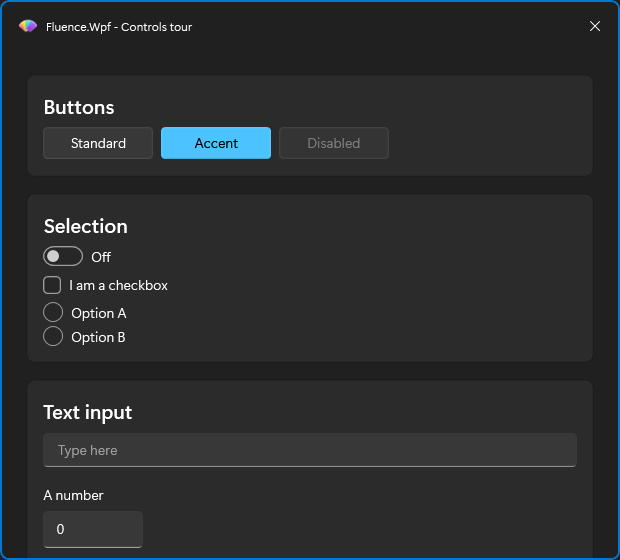
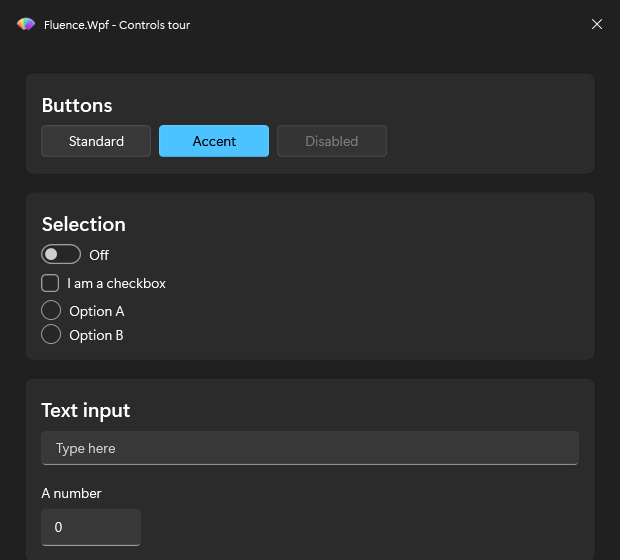
Document the WinUI parity audit and regenerate the screenshots.
docs/winui-parity.md catalogues the deliberate deviations, geometry gaps,
Fluence-only layers and tokens, and the high contrast and missing-state
follow-ups, which are also filed in KNOWN_ISSUES.md.

diff --git a/CHANGELOG.md b/CHANGELOG.md
@@ -8,6 +8,19 @@ The format is based on [Keep a Changelog](https://keepachangelog.com/en/1.1.0/),
 
 ### Fixed
 
+- Control templates are re-aligned with the WinUI 3 CommonStyles token roles. A full parity audit against `Common_themeresources_any.xaml` found every shared Color token byte-identical in Light and Dark; the deviations were role choices, element opacities, and Fluence-only layers, and the ones with no recorded rationale are corrected here. The remaining deliberate deviations and known gaps are catalogued in `docs/winui-parity.md`.
+- `ControlElevationBorderBrush` no longer flips its gradient in Dark. WinUI applies the vertical flip only in the Light dictionary, so the 1 px highlight now sits on the WinUI edge in Dark across the button family. `AccentControlElevationBorderBrush`, which WinUI flips in both themes, is unchanged.
+- `AcrylicBackgroundFillColorDefault` is opaque (`#FFF9F9F9` Light, `#FF2C2C2C` Dark), the WinUI `AcrylicBrush` FallbackColor, and every acrylic-derived flyout plate binds it: `FlyoutPresenter`, `ContextMenu` root and submenu, the `ComboBox` dropdown, `DatePicker`, `TimePicker`, `AutoSuggestBox`, `CommandBarFlyout`, and the `DropDownButton`, `SplitButton` and `ToggleSplitButton` flyouts. Previously the plates mixed `SolidBackgroundFillColorTertiaryBrush` (`#282828` Dark, four units off the fallback) and, on the three button flyouts, `SolidBackgroundFillColorQuarternaryBrush` (pure white in Light). The Windows 10 legacy acrylic tint keeps its translucency through a fixed alpha applied at the point of use. `TeachingTip` keeps `SolidBackgroundFillColorTertiaryBrush`, which is WinUI's own token for it. The scroll bar track, which aliases the same key, is opaque as WinUI's fallback is.
+- The unused `TextPlaceholderColor` token is removed, and `TextBox` and `PasswordBox` placeholders use `TextFillColorSecondaryBrush` with `TextFillColorDisabledBrush` when disabled, as WinUI's `TextControlPlaceholderForeground` family does; `TextBox`, `PasswordBox` and `NumberBox` selection highlight uses `AccentFillColorSelectedTextBackgroundBrush`, the key WinUI binds, instead of `AccentFillColorDefaultBrush`. `NumberBox` has no placeholder element; it keeps the elevation border gradient when focused and its spin buttons follow WinUI's `NumberBoxSpinButtonStyle` fill, border and foreground states instead of a subtle-fill look with a 0.4 disabled fade.
+- `Slider` matches the WinUI role table: the unfilled track paints `ControlStrongFillColorDefaultBrush` (it previously referenced `ControlFillColorPrimaryBrush`, a key that did not exist, and painted nothing), the value fill reacts to hover, drag and disabled, tick bars use the strong fill family, the whole-control 0.8 disabled fade is gone, and the thumb is WinUI's fixed neutral capsule with `ControlElevationBorderBrush` around a scaling accent inner dot (0.86 rest, 1.167 hover, 0.71 pressed). `ColorPicker` channel sliders get their own neutral thumb style, and the spectrum and preview strokes move to WinUI's 2 px with a rounded spectrum.
+- `ControlFastOutSlowInKeySpline` is `0,0,0,1`, the WinUI value its own comment claimed; the inline `KeySpline="0.8,0,0,1"` literals scattered across the control templates that were never rebased onto the shared resource are swept to `0,0,0,1` as well.
+- The `AccentFillBackdrop` plate is switched off while a control is disabled in every consumer (`Button`, `ToggleButton`, `CheckBox`, `RadioButton`, `ToggleSwitch`, `SplitButton`, `ToggleSplitButton`, `DropDownButton`), so the translucent disabled accent fill composites over the live surface as it does in WinUI.
+- `HyperlinkButton` uses `AccentTextFillColorSecondaryBrush` on hover and `AccentTextFillColorDisabledBrush` when disabled, and no longer underlines on hover. `CheckBox` paints the pressed checked and indeterminate glyph with `TextOnAccentFillColorSecondaryBrush`, and its disabled checked stroke resolves through `ControlStrongStrokeColorDisabledBrush`. `RadioButton` keeps `TextOnAccentFillColorPrimaryBrush` on the disabled dot and gains WinUI's per-state dot stroke. `ToggleSwitch` drops the 0.4 opacity multiply on the disabled knob. `ToggleButton` paints the checked accent under the accent stroke.
+- `Expander` follows the WinUI two-tier card: header and content each carry `CardBackgroundFillColorDefault` or `Secondary` with a `CardStrokeColorDefault` border rounded on their own corners, hover and pressed tint a 32 px chevron plate instead of the whole header, the chevron is `TextFillColorPrimaryBrush`, and the disabled header keeps its card look. `Card` clickable hover and pressed swap to `SubtleFillColorSecondaryBrush` and `SubtleFillColorTertiaryBrush` rather than 50 percent white overlays, and disabling no longer paints over the `Outlined` variant.
+- `InfoBar` message text is `TextFillColorPrimaryBrush` and follows `Foreground`; the severity icon is WinUI's two-layer glyph (a severity-coloured disc under an inverse glyph); the Fluence-only 3 px indicator bar and its pulse are removed; the corner radius is `ControlCornerRadius`. `InfoBadge` foreground is `TextOnAccentFillColorPrimaryBrush` so it tracks a custom accent. `ProgressBar`'s track follows `Background`, its second indeterminate bar is no longer held at 0.9 opacity, and the root border now carries `BorderBrush` in preparation for a high contrast outline; `BorderThickness` stays `0` and no high contrast trigger sets it yet. `RatingControl` dims only set stars when disabled and previews unset stars in `ControlAltFillColorTertiaryBrush`.
+- `TeachingTip` uses `SurfaceStrokeColorDefaultBrush`, a primary subtitle, a standard action button, and gains WinUI's 1 px top highlight through the new `TeachingTipTopHighlight` token. `ContentDialog` accents only the button named by `DefaultButton`. `CommandBarFlyout` borders with `ControlStrokeColorDefaultBrush`. `ComboBox` selected items fill with `SubtleFillColorSecondaryBrush`. `ToolTip` casts `FlyoutShadowEffect` through a `ShadowCaster` like the other popups (a custom template disables the Win32 `HasDropShadow` path, so it had no shadow at all, and the 0.8.19 note claiming otherwise was wrong) and rounds at `ControlCornerRadius`, as do the `DatePicker` and `TimePicker` flyouts. Menu separators bleed full width, the checkmark follows the item foreground, and an open menu bar item keeps its plate.
+- `TreeViewItem` gains the accent selection pill the `ListView` and `ListBox` items already had and uses the disabled tokens instead of a 0.5 fade; `ListViewItem` disabled is WinUI's 0.3 opacity with no foreground swap; the collection focus visual carries the inner ring. `TabView` selected stroke, hover fill, close and scroll button foregrounds follow their WinUI tokens and the strip gains a bottom seam; `TabControl` drops its 0.55 disabled fade. `ScrollBar` line buttons no longer paint hover or pressed plates and a disabled thumb fades out. `BreadcrumbBar` crumbs paint no plate and the current crumb gains hover and pressed foregrounds. `PipsPager` navigation buttons are transparent in every state. `PersonPicture` badge stroke is transparent. Inactive caption glyphs and title dim to `TextFillColorTertiaryBrush`.
+- `NavigationViewSelectionIndicatorBrush` is published in every theme and consumed by every selection indicator (`NavigationView`, `ListView`, `ListBox`, `TreeView`): the accent fill in Light and Dark, the live `SystemColors.Highlight` colour in High Contrast, which WinUI does and the previous accent-bound indicators did not. High contrast binds `Highlight`, not `HighlightText`, because Fluence's HC selected row background stays `SystemColors.Control`; `HighlightText` is designed to sit on a `Highlight`-coloured fill and would be invisible against `Control`.
 - `FluenceWindow` suppresses `Mica`, `Acrylic`, and `Tabbed` while the resolved theme is `HighContrast`, painting the opaque high contrast window colour instead of any DWM material. `WindowPolicy.ResolveEffectiveBackdrop` previously only excluded high contrast on the Windows 10 legacy acrylic path, so on Windows 11 a window that requested Mica or Acrylic kept that material under the in-app High Contrast theme, measured this session in the gallery. Microsoft Learn's "Materials in Windows apps" states that in high contrast mode all materials are suppressed and the system applies high contrast theme colors instead, the Mica design page states that users continue to see their chosen background colour in place of Mica in High Contrast mode, and WinUI's `SystemBackdropConfiguration.IsHighContrast` is documented as true for the system or application high contrast theme, which covers this library's in-app theme the same way it covers the OS wide setting. The suppression now runs first in `ResolveEffectiveBackdrop`, ahead of any OS capability downgrade, so it applies uniformly on every Windows version.
 - The `ComboBox` dropdown no longer flashes a blank dark plate before it resolves. The open reveal faded only the dropdown surface, so the opaque `ShadowCaster` behind it painted at full strength on the first composited frame while the surface was still transparent. The fade now runs on the dropdown root, which carries the caster and the surface together, and the root is stamped hidden by the template and re-hidden when the dropdown closes, so a popup frame composited before the reveal seeds its start pose is invisible rather than showing the plate. WPF does not order the `IsDropDownOpen` invalidation against the `Popup.IsOpen` template binding, so that frame is possible on any open.
 - The `NavigationView` pane surfaces resolve to a real brush. All three templates bound the pane to `AcrylicInAppFillColorDefaultBrush`, a key the theme never defined, so the `Border.Background` stayed `null` and the pane was transparent by accident. Every Fluence pane mode is an inline two-column or two-row layout that pushes the content, which is WinUI's permanent `PaneNotOverlaying` state, and there WinUI paints `NavigationViewExpandedPaneBackground` and `NavigationViewTopPaneBackground`, both `SolidBackgroundFillColorTransparent`. The templates now bind that token, so the pane is transparent by design, and the pane transparency test fails on a `null` brush instead of passing through it. The `LeftCompact` enum doc no longer claims the pane expands as an overlay, and the template comment carries the real 320 open width.

diff --git a/docs/winui-parity.md b/docs/winui-parity.md
@@ -36,7 +36,7 @@ WinUI's tooltip fade-out (the exit animation WinUI plays when a tooltip closes) 
 
 ## 4. Fluence-only layers and motion
 
-- **`AccentFillBackdrop`** - an opaque white or near-black sub-layer painted behind every translucent accent fill: the `ToggleSwitch` track, the accent `Button`, `ToggleButton`, `SplitButton` and `ToggleSplitButton` fills, and the `CheckBox` and `RadioButton` indicators. It is switched off while the control is disabled, because the disabled accent fill is meant to composite over the live surface. The rationale is recorded in `Fluence.Wpf/Themes/Colors/Theme.Light.xaml:172-181`: compositing the `AccentFillColor*` track brushes directly against a visible Mica or Acrylic card surface drifted the resulting accent hue 2-3 RGB units per channel from the Windows accent palette, so the opaque backdrop pins the composited colour regardless of what is behind the card. It is turned off when the switch is disabled, since the disabled track uses a flat neutral fill that does not need pinning.
+- **`AccentFillBackdrop`** - an opaque white or near-black sub-layer painted behind every translucent accent fill: the `ToggleSwitch` track, the accent `Button`, `ToggleButton`, `SplitButton` and `ToggleSplitButton` fills, and the `CheckBox` and `RadioButton` indicators. It is switched off while the control is disabled, because the disabled accent fill is meant to composite over the live surface. The rationale is recorded in `Fluence.Wpf/Themes/Colors/Theme.Light.xaml:172-181`: compositing the `AccentFillColor*` track brushes directly against a visible Mica or Acrylic card surface drifted the resulting accent hue 2-3 RGB units per channel from the Windows accent palette, so the opaque backdrop pins the composited colour regardless of what is behind the card.
 - **Press scale**: `Button`, `ToggleButton`, and `RepeatButton` scale to 0.98 on press; `HyperlinkButton` does not scale. WinUI's `CommonStyles` button family (`Button_themeresources.xaml`, `ToggleButton_themeresources.xaml`, `RepeatButton_themeresources.xaml`) has no press-time render transform in any of their visual states - the WinUI pressed state is a colour change only. The scale is a Fluence motion choice with no WinUI source to match; `RepeatButton` holds the scaled-down transform for the whole duration of its auto-repeat, not just the initial press, since the button stays logically pressed until release.
 - **`CheckBox` and `RadioButton`** press scale their check glyph and dot to 0.9. WinUI instead grows the RadioButton dot on press (see the geometry table) and CheckBox's glyph size is constant across states (`CheckBox_themeresources.xaml`); Fluence's uniform 0.9 press scale on both controls has no WinUI equivalent.
 - **`Slider`** now shows hover and press feedback on the inner dot (the `SliderInnerThumb`/thumb-fill ellipse), matching WinUI's `SliderInnerThumb` scale states (`Slider\Slider_themeresources.xaml:199-252`: 0.86 at rest, 1.167 on hover, 0.71 pressed); the outer capsule stays fixed.

diff --git a/KNOWN_ISSUES.md b/KNOWN_ISSUES.md
@@ -141,6 +141,45 @@ maintainers.
   menu is not picked up until the item is shown again. Fitting stays first-fit
   greedy, so a narrow item after a wide one keeps its place on the strip instead
   of being pushed into the menu with everything that follows it.
+- **`TitleBar` has no deactivated family** - WinUI's `TitleBar` dims eight
+  regions (back button, pane toggle, left header, icon, title text, subtitle
+  text, content presenter, right header) when the window loses activation,
+  most to `TitleBarDeactivatedOpacity` (0.5) and the text elements to
+  `TextFillColorTertiaryBrush` (`TitleBar.xaml:25-133`,
+  `TitleBar_themeresources.xaml:86` under WinUI CommonStyles). `FluenceWindow`
+  dims only its own title text; the icon, subtitle, and title-bar content
+  slots stay at full opacity on deactivation. See `docs/winui-parity.md`
+  section 8.
+- **High contrast interaction states collapse into one** - Fluence's high
+  contrast table resolves both `SubtleFillColorSecondary` and
+  `SubtleFillColorTertiary` to `SystemColors.Control`, so hover, pressed, and
+  selected visuals on menu items, list rows, and `NavigationView` items are
+  indistinguishable from each other and from the resting surface. WinUI keeps
+  these states visually distinct in high contrast by mapping pointer-over and
+  pressed to two different System accent-derived brushes
+  (`NavigationView_themeresources.xaml:142-143`). See `docs/winui-parity.md`
+  section 7.
+- **Pressed states are absent on stock WPF item containers** -
+  `ListViewItem`, `ListBoxItem`, `TreeViewItem`, and `TabViewItem` derive from
+  WPF base classes with no `IsPressed` concept the way `ButtonBase` has, so
+  none of them draw a pressed visual state, unlike their WinUI counterparts.
+  See `docs/winui-parity.md` section 8.
+- **`NumberBox` `Compact` mode is a hover-reveal panel, not a popup** - WinUI's
+  `Compact` spin-button mode opens an acrylic popup with 36px increment and
+  decrement buttons; Fluence instead reveals an inline panel on hover. See
+  `docs/winui-parity.md` sections 4 and 5.
+- **Text controls have no `Header` or `Description` template parts** -
+  `TextBox` and `PasswordBox` carry neither slot, so a consumer wanting a
+  label or helper text above or below the field must add its own
+  `TextBlock`; `NumberBox`'s header also does not dim when the control is
+  disabled, unlike WinUI's. See `docs/winui-parity.md` section 5.
+- **`TreeView`, `TabView`, and `PipsPager` geometry gaps** - `TreeView` and
+  `TabView` selection and separator metrics, and `PipsPager` pip pitch and
+  hover sizing, were not part of the current colour and role fix pass and
+  still differ from their WinUI CommonStyles sources (`TabView` draws no
+  inter-tab separator or corner fillets; `PipsPager` does not scale pips or
+  use a pressed scale on its nav buttons). See `docs/winui-parity.md`
+  section 6 for the full geometry table.
 
 ## net472 accessibility API gaps
 

diff --git a/docs/theming.md b/docs/theming.md
@@ -1,5 +1,7 @@
 Fluence.Wpf uses WinUI 3 naming and state behavior for theme resources, implemented as plain WPF. If you already work with WinUI keys, most token names and control roles will look familiar.
 
+See [docs/winui-parity.md](winui-parity.md) for a token-by-token and template-by-template comparison against WinUI 3 CommonStyles, including where and why Fluence deliberately diverges.
+
 ## Merge order (application resources)
 
 `Application.Current.Resources.MergedDictionaries` uses a **stable 3-slot layout** after the first `ApplicationThemeManager.Apply`:
@@ -39,7 +41,7 @@ Each color token has a matching `*Brush` frozen `SolidColorBrush` - for example 
 
 Transient surfaces cast a shadow; persistent ones do not. `FlyoutShadowEffect` is the single elevation token: a frozen `DropShadowEffect` (blur radius 18, direction 270, shadow depth 4, 22% black) built by `SpecialBrushes`. It is theme independent, so it does not change with theme or accent.
 
-Twelve templates use it: `FlyoutPresenter`, `ContextMenu` (root menu and submenu), `ComboBox`, `DatePicker`, `TimePicker`, `DropDownButton`, `SplitButton`, `ToggleSplitButton`, `AutoSuggestBox`, `CommandBarFlyout`, `TeachingTip`, and `ContentDialog`. `ToolTip` elevates through the Win32 popup shadow (`HasDropShadow`) instead. Persistent surfaces such as `Card` stay flat: background, a 1 px stroke, and a corner radius.
+Thirteen templates use it: `FlyoutPresenter`, `ContextMenu` (root menu and submenu), `ComboBox`, `DatePicker`, `TimePicker`, `DropDownButton`, `SplitButton`, `ToggleSplitButton`, `AutoSuggestBox`, `CommandBarFlyout`, `TeachingTip`, `ContentDialog`, and `ToolTip`. `ToolTip` now casts the same effect as the rest instead of relying on the Win32 popup shadow (`HasDropShadow`): that property only triggers the native drop shadow when the popup's own theme template applies `SystemDropShadowChrome`, which the Fluent `ToolTip` template does not, so the earlier claim that `ToolTip` elevated through `HasDropShadow` was never accurate. Persistent surfaces such as `Card` stay flat: background, a 1 px stroke, and a corner radius.
 
 WPF disables ClearType for every text run beneath an `Effect`, so no template puts the effect on the surface that hosts the text. Each one paints an empty sibling `Border` named `ShadowCaster` behind the surface, matched in size and corner radius, and carries the effect there:
 

diff --git a/docs/controls.md b/docs/controls.md
@@ -1,4 +1,6 @@
-The **Fluence.Wpf.Demo** gallery shows every control: `FluenceWindow` chrome with a search box in the title bar, a left `NavigationView` (compact / expanded), and grouped `UserControl` pages under `Fluence.Wpf.Demo/Pages/`:
+See [docs/winui-parity.md](winui-parity.md) for a control-by-control comparison against WinUI 3 CommonStyles, including geometry, elevation, and behavior gaps.
+
+The **Fluence.Wpf.Demo** gallery shows every control: `FluenceWindow` chrome with a search box in the title bar, a left `NavigationView` (compact / expanded), and grouped `UserControl` pages under `Fluence.Wpf.Demo/Pages/`:
 
 - Home (clickable hero cards)
 - Icons (WinUI Gallery-style Iconography catalog: search, virtualized tile grid, copyable glyph details)

diff --git a/AGENTS.md b/AGENTS.md
@@ -405,6 +405,7 @@ Public and repository documentation:
 - [docs/getting-started.md](docs/getting-started.md)
 - [docs/theming.md](docs/theming.md)
 - [docs/controls.md](docs/controls.md)
+- [docs/winui-parity.md](docs/winui-parity.md)
 - [docs/powershell.md](docs/powershell.md)
 - [docs/migration-guide.md](docs/migration-guide.md)
 - [docs/contributing.md](docs/contributing.md)
